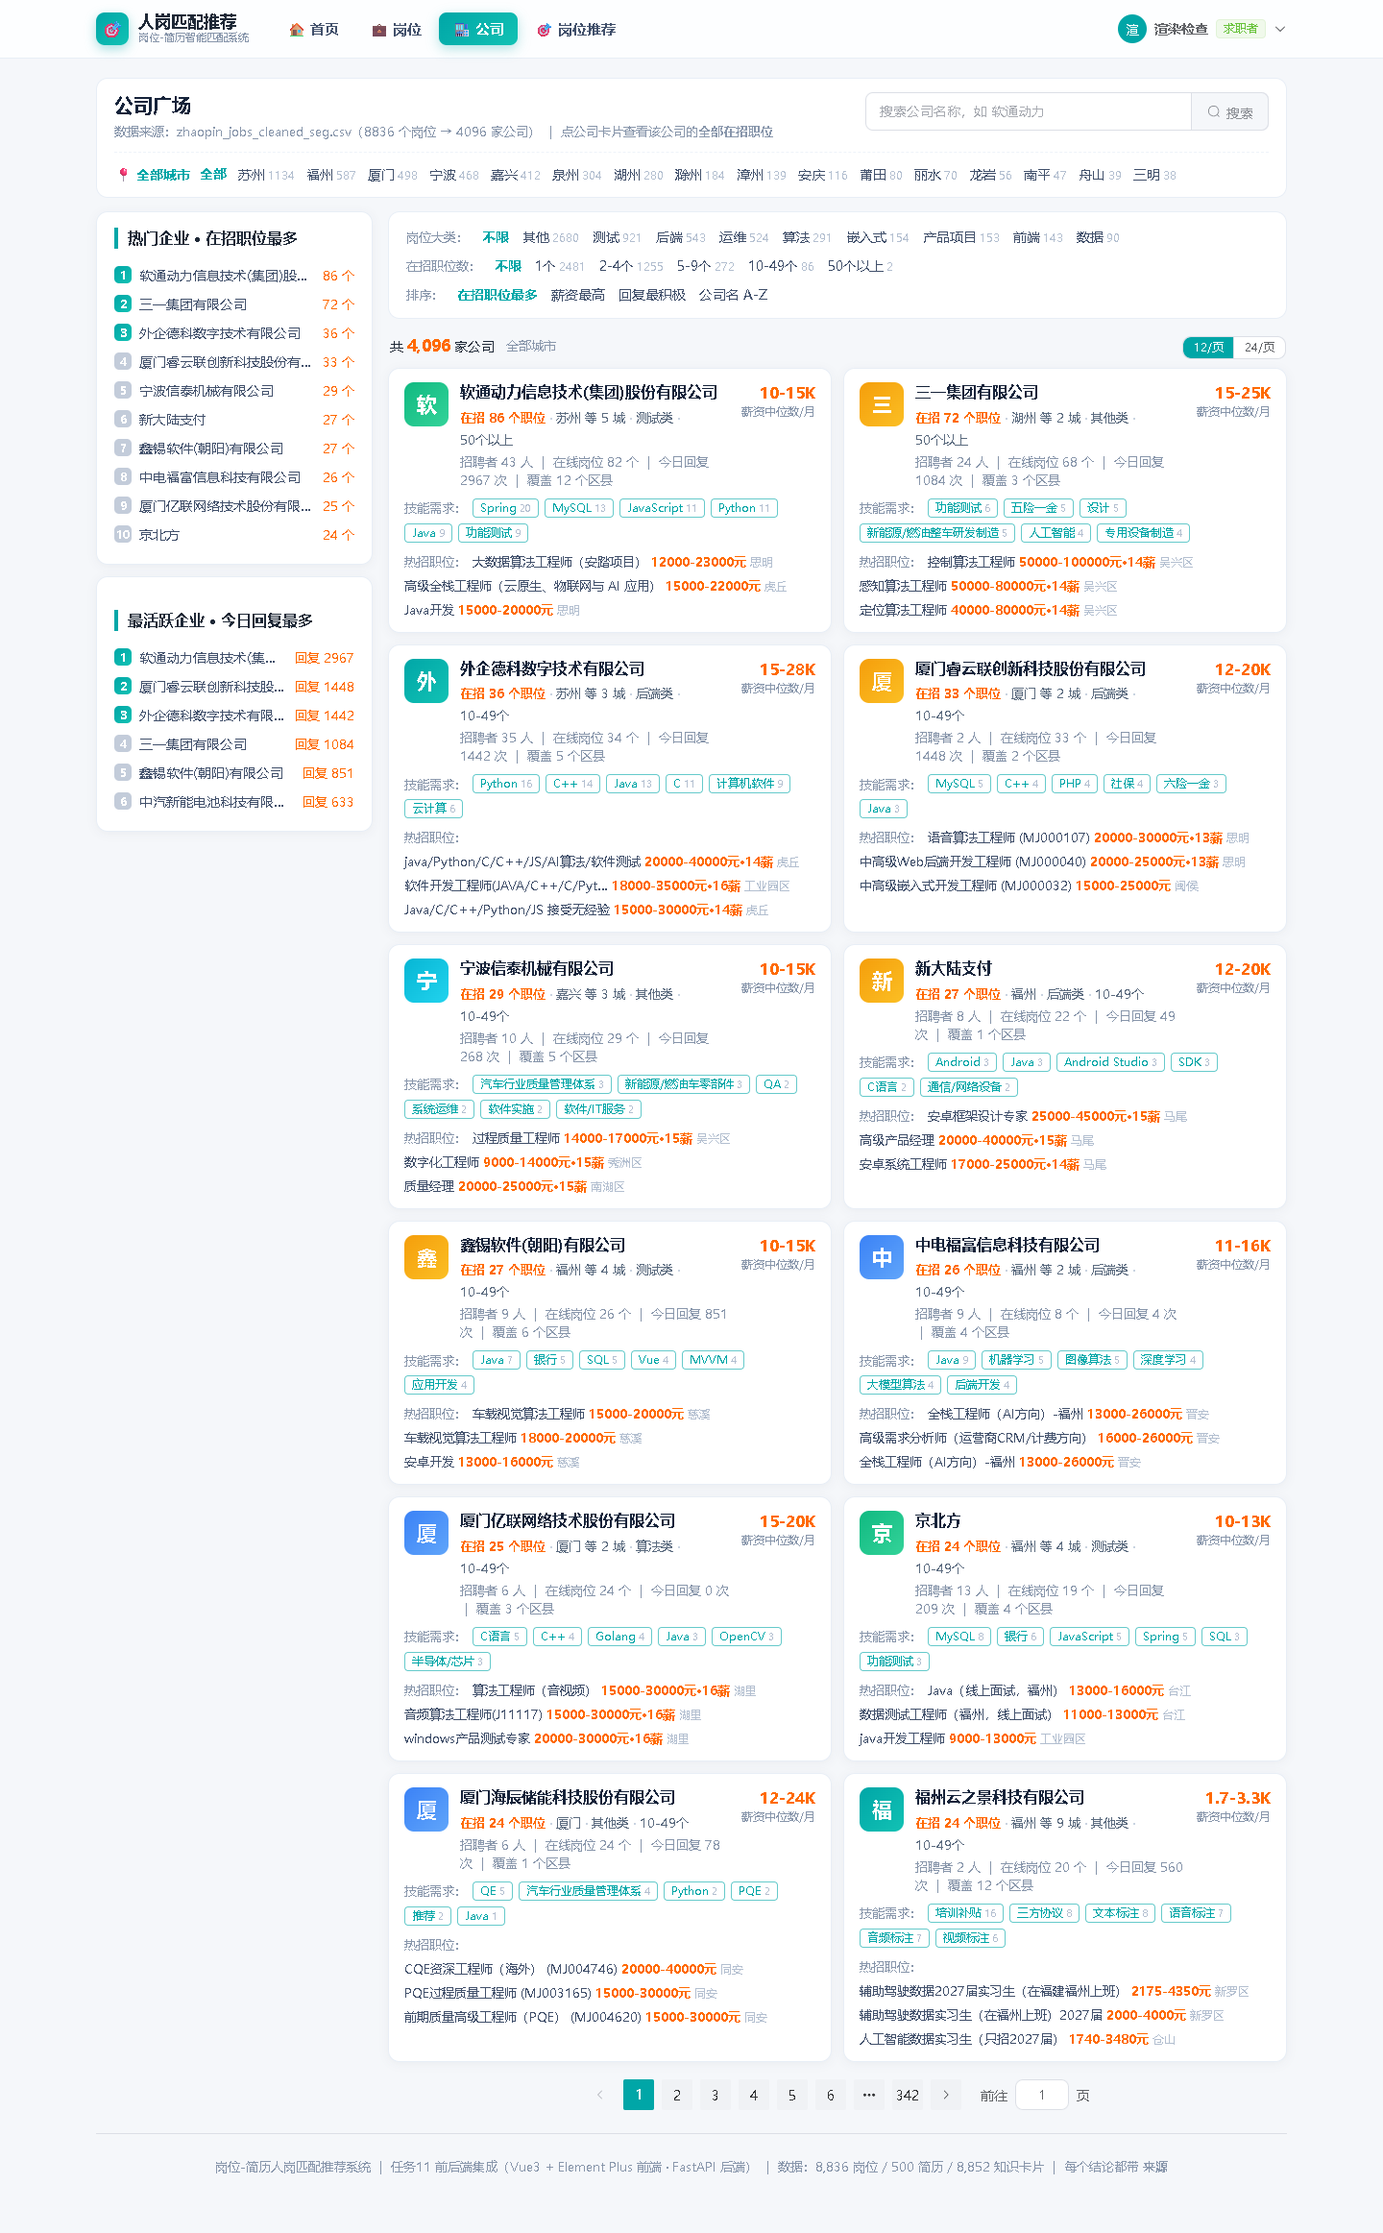
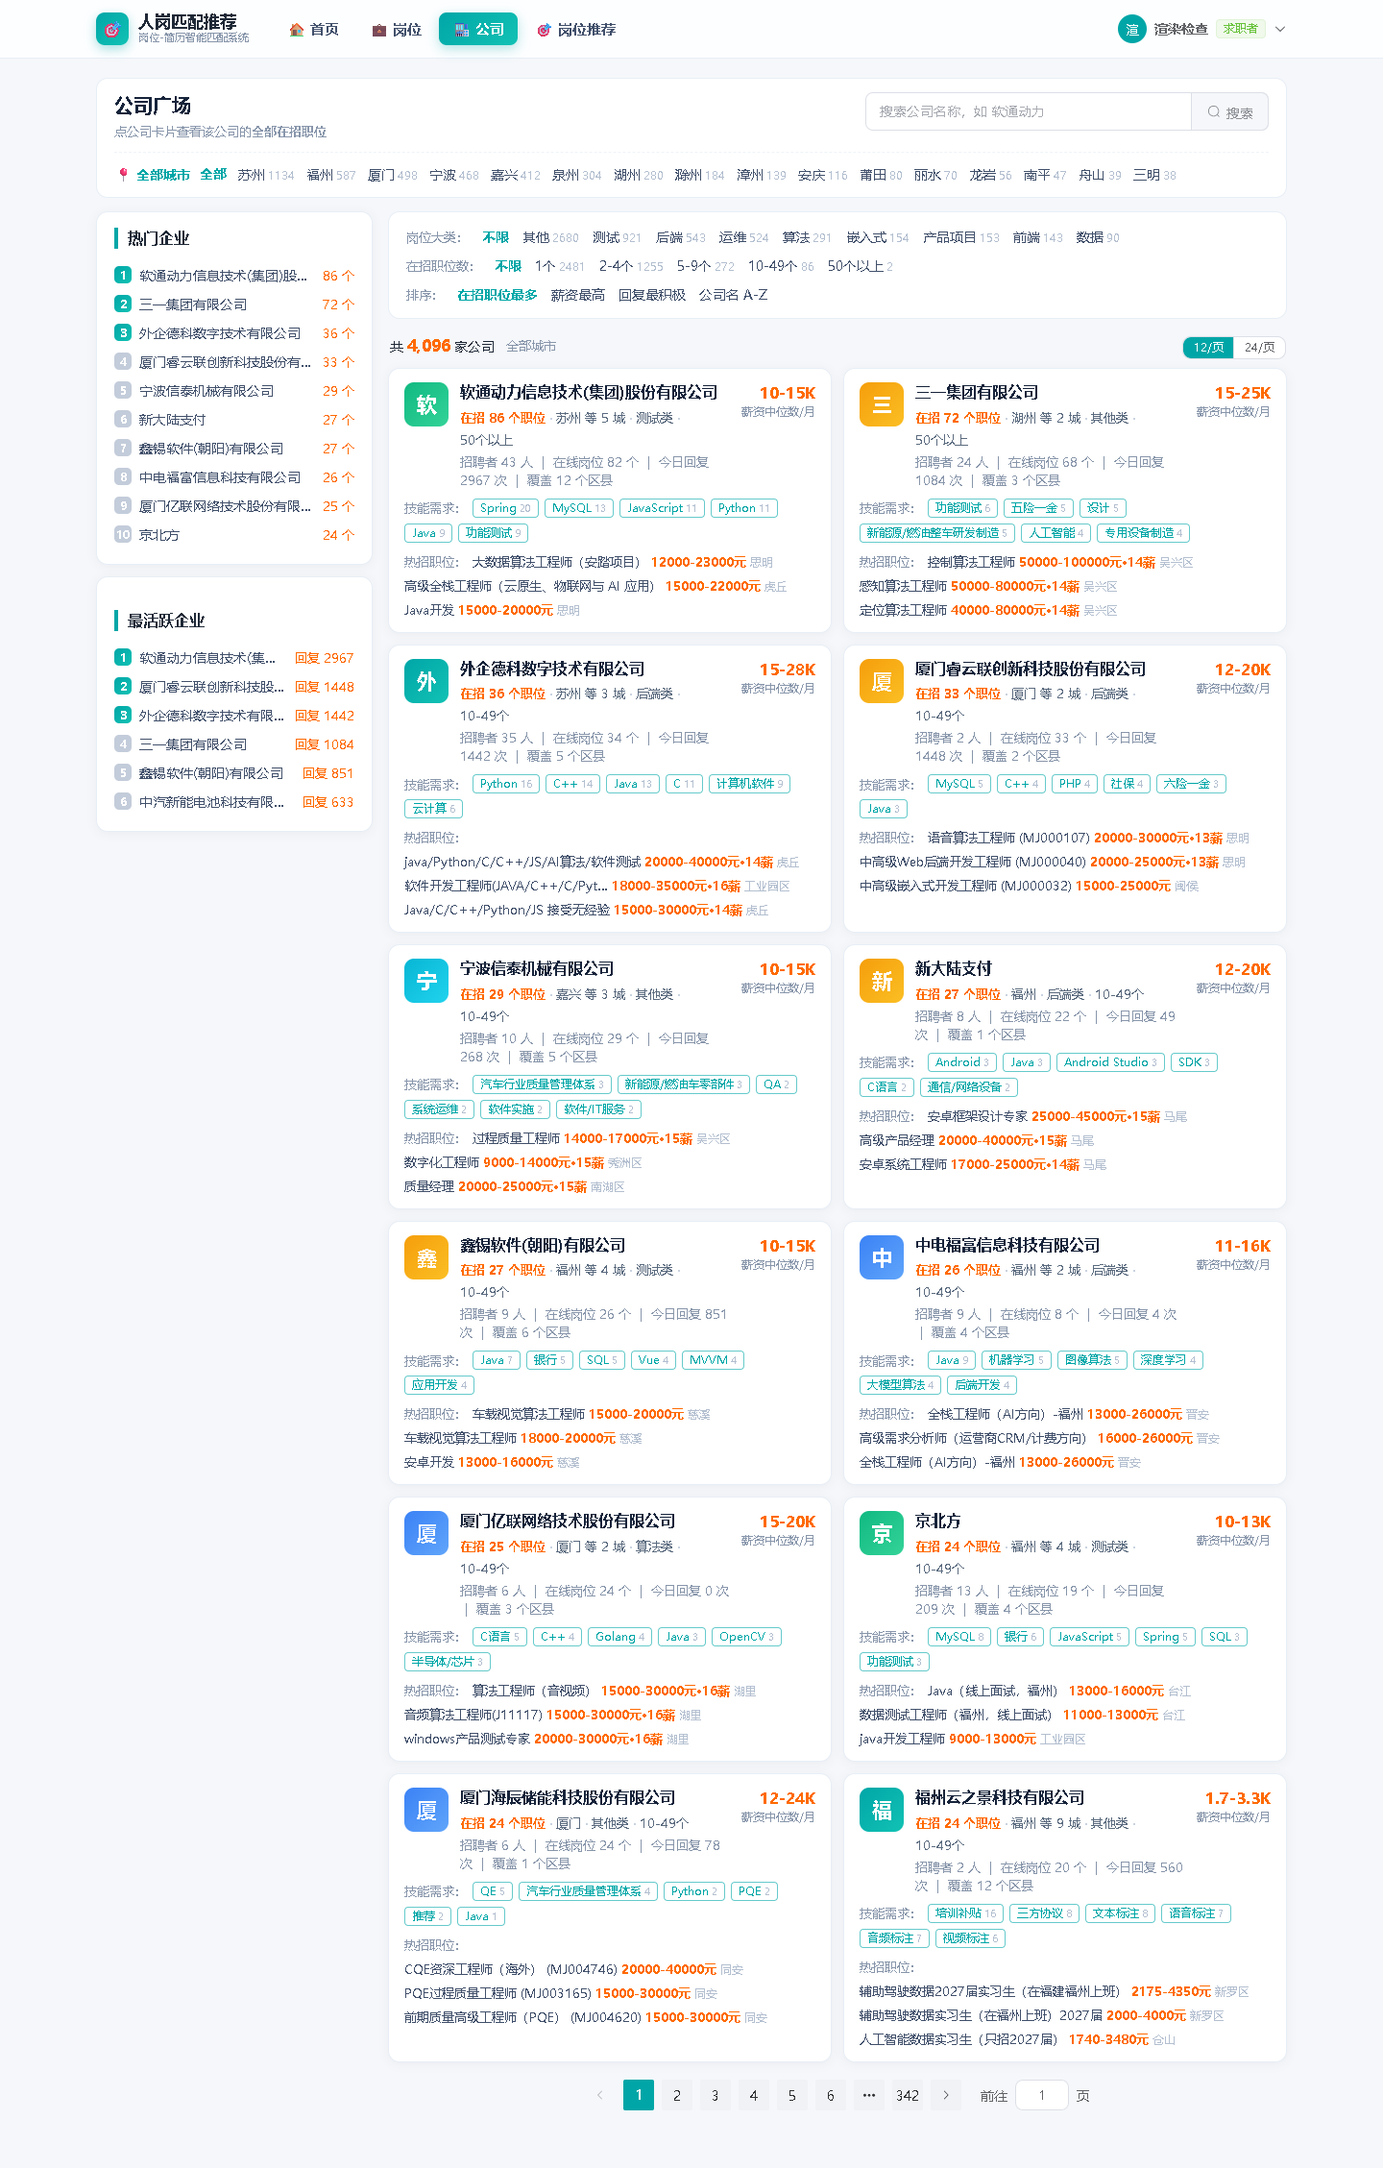
任务11: 按反馈清理页面上的口径/来源/数据规模描述文字（首页区块口径小字与底部两行、全站页脚、数据来源面板、已知局限与来源折叠框、PBKDF2 说明等），接口与文档保留口径，渲染反向断言扩充并逐页复查8页面全干净

diff --git a/web/src/views/HomeView.vue b/web/src/views/HomeView.vue
@@ -47,7 +47,7 @@
     </div>
 
     <!-- ③ 地区推荐 -->
-    <div class="zq-section">地区推荐<em class="sub">按岗位数排序，点卡片看该地区岗位</em></div>
+    <div class="zq-section">地区推荐</div>
     <div class="regions">
       <div v-for="r in st.地区推荐" :key="r.城市" class="rcard" @click="goJobs({ city: r.城市 })">
         <div class="rc1"><b>{{ r.城市 }}</b><em>{{ r.省份 }}</em></div>
@@ -63,7 +63,7 @@
     </div>
 
     <!-- ④ 高薪岗位推荐 -->
-    <div class="zq-section">高薪岗位推荐<em class="sub">按该岗位薪资上限（元/月）排序</em></div>
+    <div class="zq-section">高薪岗位推荐</div>
     <div class="jobgrid">
       <div v-for="(j, i) in st.高薪岗位" :key="j.岗位ID" class="jmini" @click="openJob(j.岗位ID)">
         <div class="jm1">
@@ -85,8 +85,7 @@
     </div>
 
     <!-- ⑤ 热门岗位推荐 -->
-    <div class="zq-section">热门岗位推荐
-      <em class="sub">按招聘者「今日回复数」排序（在线优先）</em></div>
+    <div class="zq-section">热门岗位推荐</div>
     <div class="jobgrid">
       <div v-for="j in st.热门岗位" :key="j.岗位ID" class="jmini" @click="openJob(j.岗位ID)">
         <div class="jm1">
@@ -108,24 +107,20 @@
     </div>
 
     <!-- ⑥ 热门企业 -->
-    <div class="zq-section">热门企业<em class="sub">按在招职位数排序，点卡片看全部在招岗位</em></div>
+    <div class="zq-section">热门企业</div>
     <div class="compgrid">
       <CompanyCard v-for="c in st.热门企业" :key="c.公司ID" :c="c" compact
                    @open="goCompanyCard" @job="openJob" />
     </div>
 
     <!-- ⑦ 热门技能 -->
-    <div class="zq-section">热门技能<em class="sub">点标签搜相关岗位</em></div>
+    <div class="zq-section">热门技能</div>
     <div class="skills">
       <a v-for="s in st.热门技能" :key="s.名称" class="skill" @click="goJobs({ keyword: s.名称 })">
         {{ s.名称 }}<em>{{ s.数量 }}</em></a>
     </div>
 
-    <!-- 数据来源与口径（一行小字，完整说明见《系统设计文档》§3.9/§3.10） -->
-    <div class="foot">
-      <span class="muted">{{ st.口径说明.join(' ') }}</span>
-      <span class="muted">数据来源：{{ st.来源.join('、') }}</span>
-    </div>
+    <!-- 数据来源与口径不再展示在页面上（接口仍返回，文档里仍记录） -->
 
     <JobDetailDrawer v-model="drawer" :job-id="curJob" />
   </div>
@@ -136,8 +131,8 @@
  * 首页 = 推荐页（游客可用）：热门分类 hero 轮播 → 地区推荐 → 高薪岗位 →
  * 热门岗位 → 热门企业 → 热门技能。
  *
- * 所有榜单都来自真实列，排序口径写在每节标题旁 + 页面底部（接口也返回 `口径说明`）。
- * 点任意岗位/公司都会跳到对应详情，形成"首页 → 岗位/公司 → 职位详情"的动线。
+ * 所有榜单都来自真实列；排序口径由接口 `口径说明` 返回并记录在《系统设计文档》§3.10，
+ * 页面上不再展示这类说明文字（按使用者要求：页面上不放口径/来源描述）。
  */
 import { onMounted, ref } from 'vue'
 import { useRouter } from 'vue-router'
@@ -177,7 +172,6 @@ onMounted(async () => {
 <style scoped>
 .home { max-width: 1180px; margin: 0 auto; }
 .muted { color: #8896ab; font-size: 12.5px; }
-.zq-section .sub { font-weight: 500; font-size: 12.5px; color: #8896ab; margin-left: 10px; }
 
 /* ---------- Hero 轮播 ---------- */
 .hero { border-radius: 14px; overflow: hidden; }
@@ -274,9 +268,6 @@ onMounted(async () => {
 .skill em { font-style: normal; color: #b3bfd0; font-size: 11.5px; margin-left: 5px; }
 
 /* ---------- 底部 ---------- */
-.foot { margin-top: 20px; display: flex; flex-direction: column; gap: 4px;
-  line-height: 1.7; }
-
 @media (max-width: 900px) {
   .slide { flex-direction: column; padding: 16px; }
   .sright { width: auto; }

diff --git a/web/src/views/MatchView.vue b/web/src/views/MatchView.vue
@@ -103,23 +103,6 @@
             </div>
             <div class="muted" style="margin-top:8px">💡 {{ j.推荐理由 }}</div>
           </div>
-
-          <el-collapse style="margin-top:12px">
-            <el-collapse-item title="📎 来源（可追溯到数据文件/报告）">
-              <div class="src-list">
-                <div v-for="s in result.来源" :key="s"><code>{{ s }}</code></div>
-              </div>
-            </el-collapse-item>
-            <el-collapse-item title="⚠ 已知局限（如实说明）">
-              <div class="muted" style="line-height:1.95">
-                · <b>无人工金标</b>：真值都由规则生成，不能宣称「准确率 X%」<br />
-                · 简历侧为合成数据（500 份），岗位侧 8,836 条为真实抓取<br />
-                · 只覆盖 16 城 / 4 省（闽浙苏皖）<br />
-                · <code>经验要求</code> 字段 24.69% 错位，系统按「信息缺失」处理<br />
-                · 在线推荐用规则口径（可解释）；模型口径是规则的蒸馏（Spearman 0.9909）
-              </div>
-            </el-collapse-item>
-          </el-collapse>
         </section>
       </div>
     </div>
@@ -154,7 +137,7 @@
         <div class="chat-bubble">{{ cur.推荐理由 }}</div>
 
         <el-divider />
-        <div class="zq-section" style="margin-top:0">评分双口径（任务5 模型 / 任务6 规则）</div>
+        <div class="zq-section" style="margin-top:0">评分对比</div>
         <el-button size="small" :loading="scoring" @click="doScore">计算该岗位的模型分</el-button>
         <div v-if="score" style="margin-top:10px">
           <el-descriptions :column="2" border size="small">
@@ -167,7 +150,6 @@
             <el-descriptions-item label="两者差异">
               {{ score.差异 ?? '—' }} 分</el-descriptions-item>
           </el-descriptions>
-          <div class="muted" style="margin-top:8px">{{ score.模型口径.口径说明 }}</div>
         </div>
 
         <el-divider />

diff --git a/web/src/views/CompaniesView.vue b/web/src/views/CompaniesView.vue
@@ -5,9 +5,7 @@
       <div class="trow">
         <div>
           <div class="h1">公司广场</div>
-          <div class="sub">
-            数据来源：{{ st.来源[0] || '真实抓取岗位表' }} ｜ 点公司卡片查看该公司的<b>全部在招职位</b>
-          </div>
+          <div class="sub">点公司卡片查看该公司的<b>全部在招职位</b></div>
         </div>
         <el-input v-model="kw" size="large" class="sinput" placeholder="搜索公司名称，如 软通动力"
                   clearable @keyup.enter="search">
@@ -30,7 +28,7 @@
       <!-- ② 左栏：榜单 + 口径 -->
       <aside class="side">
         <div class="zq-card pad panel">
-          <div class="zq-section" style="margin-top:0">热门企业 · 在招职位最多</div>
+          <div class="zq-section" style="margin-top:0">热门企业</div>
           <a v-for="(c, i) in st.热门企业.slice(0, 10)" :key="c.公司ID" class="rank"
              @click="go(c)">
             <b :class="{ top3: i < 3 }">{{ i + 1 }}</b>
@@ -40,7 +38,7 @@
         </div>
 
         <div class="zq-card pad panel">
-          <div class="zq-section">最活跃企业 · 今日回复最多</div>
+          <div class="zq-section">最活跃企业</div>
           <a v-for="(c, i) in st.最活跃企业.slice(0, 6)" :key="c.公司ID" class="rank"
              @click="go(c)">
             <b :class="{ top3: i < 3 }">{{ i + 1 }}</b>

diff --git a/web/src/views/CompanyView.vue b/web/src/views/CompanyView.vue
@@ -116,16 +116,6 @@
                          @open="go" @job="openJob" />
             <div v-if="!c.相似公司.length" class="muted">没有同为「{{ c.主要城市 }} · {{ c.主要大类 }}」的其他公司</div>
           </div>
-
-          <div class="zq-card pad panel">
-            <div class="zq-section">数据来源</div>
-            <ul class="notes">
-              <li>公司档案由该公司在招的 {{ c.在招岗位数 }} 个真实岗位聚合而来（不含行业/融资等未采集字段）。</li>
-              <li v-if="c.来源关键词.length">
-                这些岗位当初由以下关键词搜到：{{ c.来源关键词.map((x) => x.名称).join('、') }}。</li>
-              <li>{{ sizeTip }}。</li>
-            </ul>
-          </div>
         </aside>
       </div>
     </template>

diff --git a/web/src/views/ProfileView.vue b/web/src/views/ProfileView.vue
@@ -167,8 +167,6 @@
               <el-button type="primary" @click="savePw">修改密码</el-button>
             </el-form-item>
           </el-form>
-          <el-alert type="info" :closable="false"
-                    title="口令以 PBKDF2-HMAC-SHA256（20 万次迭代 + 每用户随机盐）存储，不保存明文；登录令牌 7 天有效，退出即失效" />
         </div>
       </el-tab-pane>
     </el-tabs>

diff --git a/web/src/layouts/AppLayout.vue b/web/src/layouts/AppLayout.vue
@@ -47,11 +47,6 @@
 
   <div class="zq-main">
     <router-view />
-    <el-divider />
-    <div class="muted" style="text-align:center">
-      岗位-简历人岗匹配推荐系统 ｜ 任务11 前后端集成（Vue3 + Element Plus 前端 · FastAPI 后端）
-      ｜ 数据：8,836 岗位 / 500 简历 / 8,852 知识卡片 ｜ 每个结论都带 <b>来源</b>
-    </div>
   </div>
 </template>
 

diff --git a/web/src/views/JobsBrowseView.vue b/web/src/views/JobsBrowseView.vue
@@ -1,9 +1,6 @@
 <template>
   <div class="jobs">
     <div class="zq-page-title">岗位</div>
-    <div class="zq-page-desc">
-      全部 <b>{{ fmt(st.总体.岗位总数) }}</b> 个真实岗位 ｜ 支持城市 / 区域 / 薪资 / 学历 / 关键词筛选
-    </div>
 
     <!-- ① 顶部：城市切换 + 搜索 + 热门职位 -->
     <div class="topbar">

diff --git a/docs/测试报告.md b/docs/测试报告.md
@@ -291,7 +291,8 @@ python src/api/score_features.py --validate 10  # 特征口径一致性自检
 
 ---
 
-> 文档版本：v1.9（2026-09-18，**首页与导航改版后的复核**：新增 `tests/test_home.py` **21 项**（首页推荐 `/api/home`：榜单口径、跨接口一致性、诚实性"不得编热度字段"、边界与异常），`tests/test_jobs.py` 新增 `source_kw` **2 项**，用例总数 153 → **176 项全绿**（26.39 s）；前端无头渲染新增**游客态**断言（游客仅三个标签、`/#/match` 与 `/#/profile` 弹回登录页，改用独立无痕上下文避免共享 localStorage 误判）与 2 个旧地址重定向断言；另用一次性真实点击脚本验证首页轮播自动滚动、各区块跳转与个人中心"粘贴→解析→保存→去匹配"链路；
+> 文档版本：v2.0（2026-09-18，**页面清理描述性文字后的复核**：删除页面上全部「口径 / 数据来源 / 数据规模」类说明文字（首页区块口径小字与底部两行、全站页脚、岗位页数据规模说明、公司页"数据来源"前缀与榜单标题后缀、公司详情「数据来源」面板、岗位推荐页「📎 来源」与「⚠ 已知局限」折叠框、个人中心 PBKDF2 说明、匹配抽屉里的口径说明一行）；**后端接口与文档中的口径/来源全部保留**，故**用例数不变——仍 176 项全绿**；渲染脚本反向断言扩充为 `口径说明`/`数据来源`/`每个结论都带`/`按岗位数排序`/`排序（在线优先）`/`按在招职位数排序`/`可追溯到数据文件`/`如实说明`/`PBKDF2` 等（扫描全量 DOM），另用一次性脚本逐页复查可见文本，**8 个页面全部干净**，8 路由 0 error；
+> v1.9（2026-09-18，**首页与导航改版后的复核**：新增 `tests/test_home.py` **21 项**（首页推荐 `/api/home`：榜单口径、跨接口一致性、诚实性"不得编热度字段"、边界与异常），`tests/test_jobs.py` 新增 `source_kw` **2 项**，用例总数 153 → **176 项全绿**（26.39 s）；前端无头渲染新增**游客态**断言（游客仅三个标签、`/#/match` 与 `/#/profile` 弹回登录页，改用独立无痕上下文避免共享 localStorage 误判）与 2 个旧地址重定向断言；另用一次性真实点击脚本验证首页轮播自动滚动、各区块跳转与个人中心"粘贴→解析→保存→去匹配"链路；
 > v1.8（2026-09-18，**注册界面移除角色选择后的复核**：Vue3 与 Streamlit 两套前端注册表单都删掉角色单选，前端不再传 `role`、由后端默认 `jobseeker`；**后端用例未改**（`test_auth.py` 仍覆盖 `employer`/`admin` 角色与 403 权限演示），`test_web.py` 的 Streamlit 注册链路（按 `text_input` 填表 + 点「注册并登录」）**仍 10 项全绿**，总计仍 **153 项全绿**；渲染脚本反向断言升级为扫描**全量 DOM 文本**（含隐藏页签），并用探针脚本验证"隐藏页签内容确实可被检测、角色/求职者/企业 已彻底消失"；另用一次性脚本真实点击验证注册表单只剩 3 个字段、注册成功、新账号 `role=jobseeker`；8 路由 0 error；
 > v1.7（2026-09-18，**登录页改版后的前端复核**：删除登录页左栏品牌面板与口令说明文案，改为整页渐变 + 居中卡片；新增渲染路由 `login`（7 → **8 路由 0 error**）与"已删左栏文案回流"反向断言；一次性脚本量测 1440/1920/420 三视口的居中、宽度、无横向滚动，并跑通「注册 → 退出 → 重新登录 → 游客入口」真实点击链路，**控制台 0 error**；后端未改，仍 **153 项全绿**；
 > v1.6（2026-09-18，**按使用者反馈删减前端模块后的复核**：移除公司页「口径说明」面板与「岗位聚类」前端页面（`ClustersView.vue` + 路由 + 导航 + 渲染断言），**后端 2 个聚类接口与 Streamlit 聚类页保留**，故后端用例数**不变**——仍 **153 项全绿**；前端无头渲染 8 → **7 路由 0 error**，渲染脚本新增「不该出现的内容」反向断言；

diff --git a/web/README.md b/web/README.md
@@ -59,6 +59,10 @@ web/
 > **简历没有独立页面**——粘贴正文 / 上传 PDF / 解析 / 保存都在个人中心的「我的简历」页签里，解析完一键去「岗位推荐」；
 > 旧地址 `#/resume` 自动重定向到个人中心。**智能问答页面与后端保留**，只是当前没有导航入口（`#/chat` 仍可访问）。
 > 已删除的页面：`ClustersView.vue`（岗位聚类，2026-09-18）、`ResumeView.vue`（并入个人中心）、`JobsView.vue`（改名为 `MatchView.vue` 并挂到 `/match`）。
+>
+> **页面上不放"描述性文字"**：口径说明、数据来源、数据规模、已知局限等说明文字**一律不出现在界面**上
+> （接口仍返回、`docs/` 仍记录、测试仍守护），页面只保留功能与数据本身。渲染脚本的反向断言会把
+> `口径说明`/`数据来源`/`每个结论都带`/`按岗位数排序`/`如实说明`/`PBKDF2` 等字样当作"不该出现的内容"扫描全量 DOM。
 
 ## 运行
 
